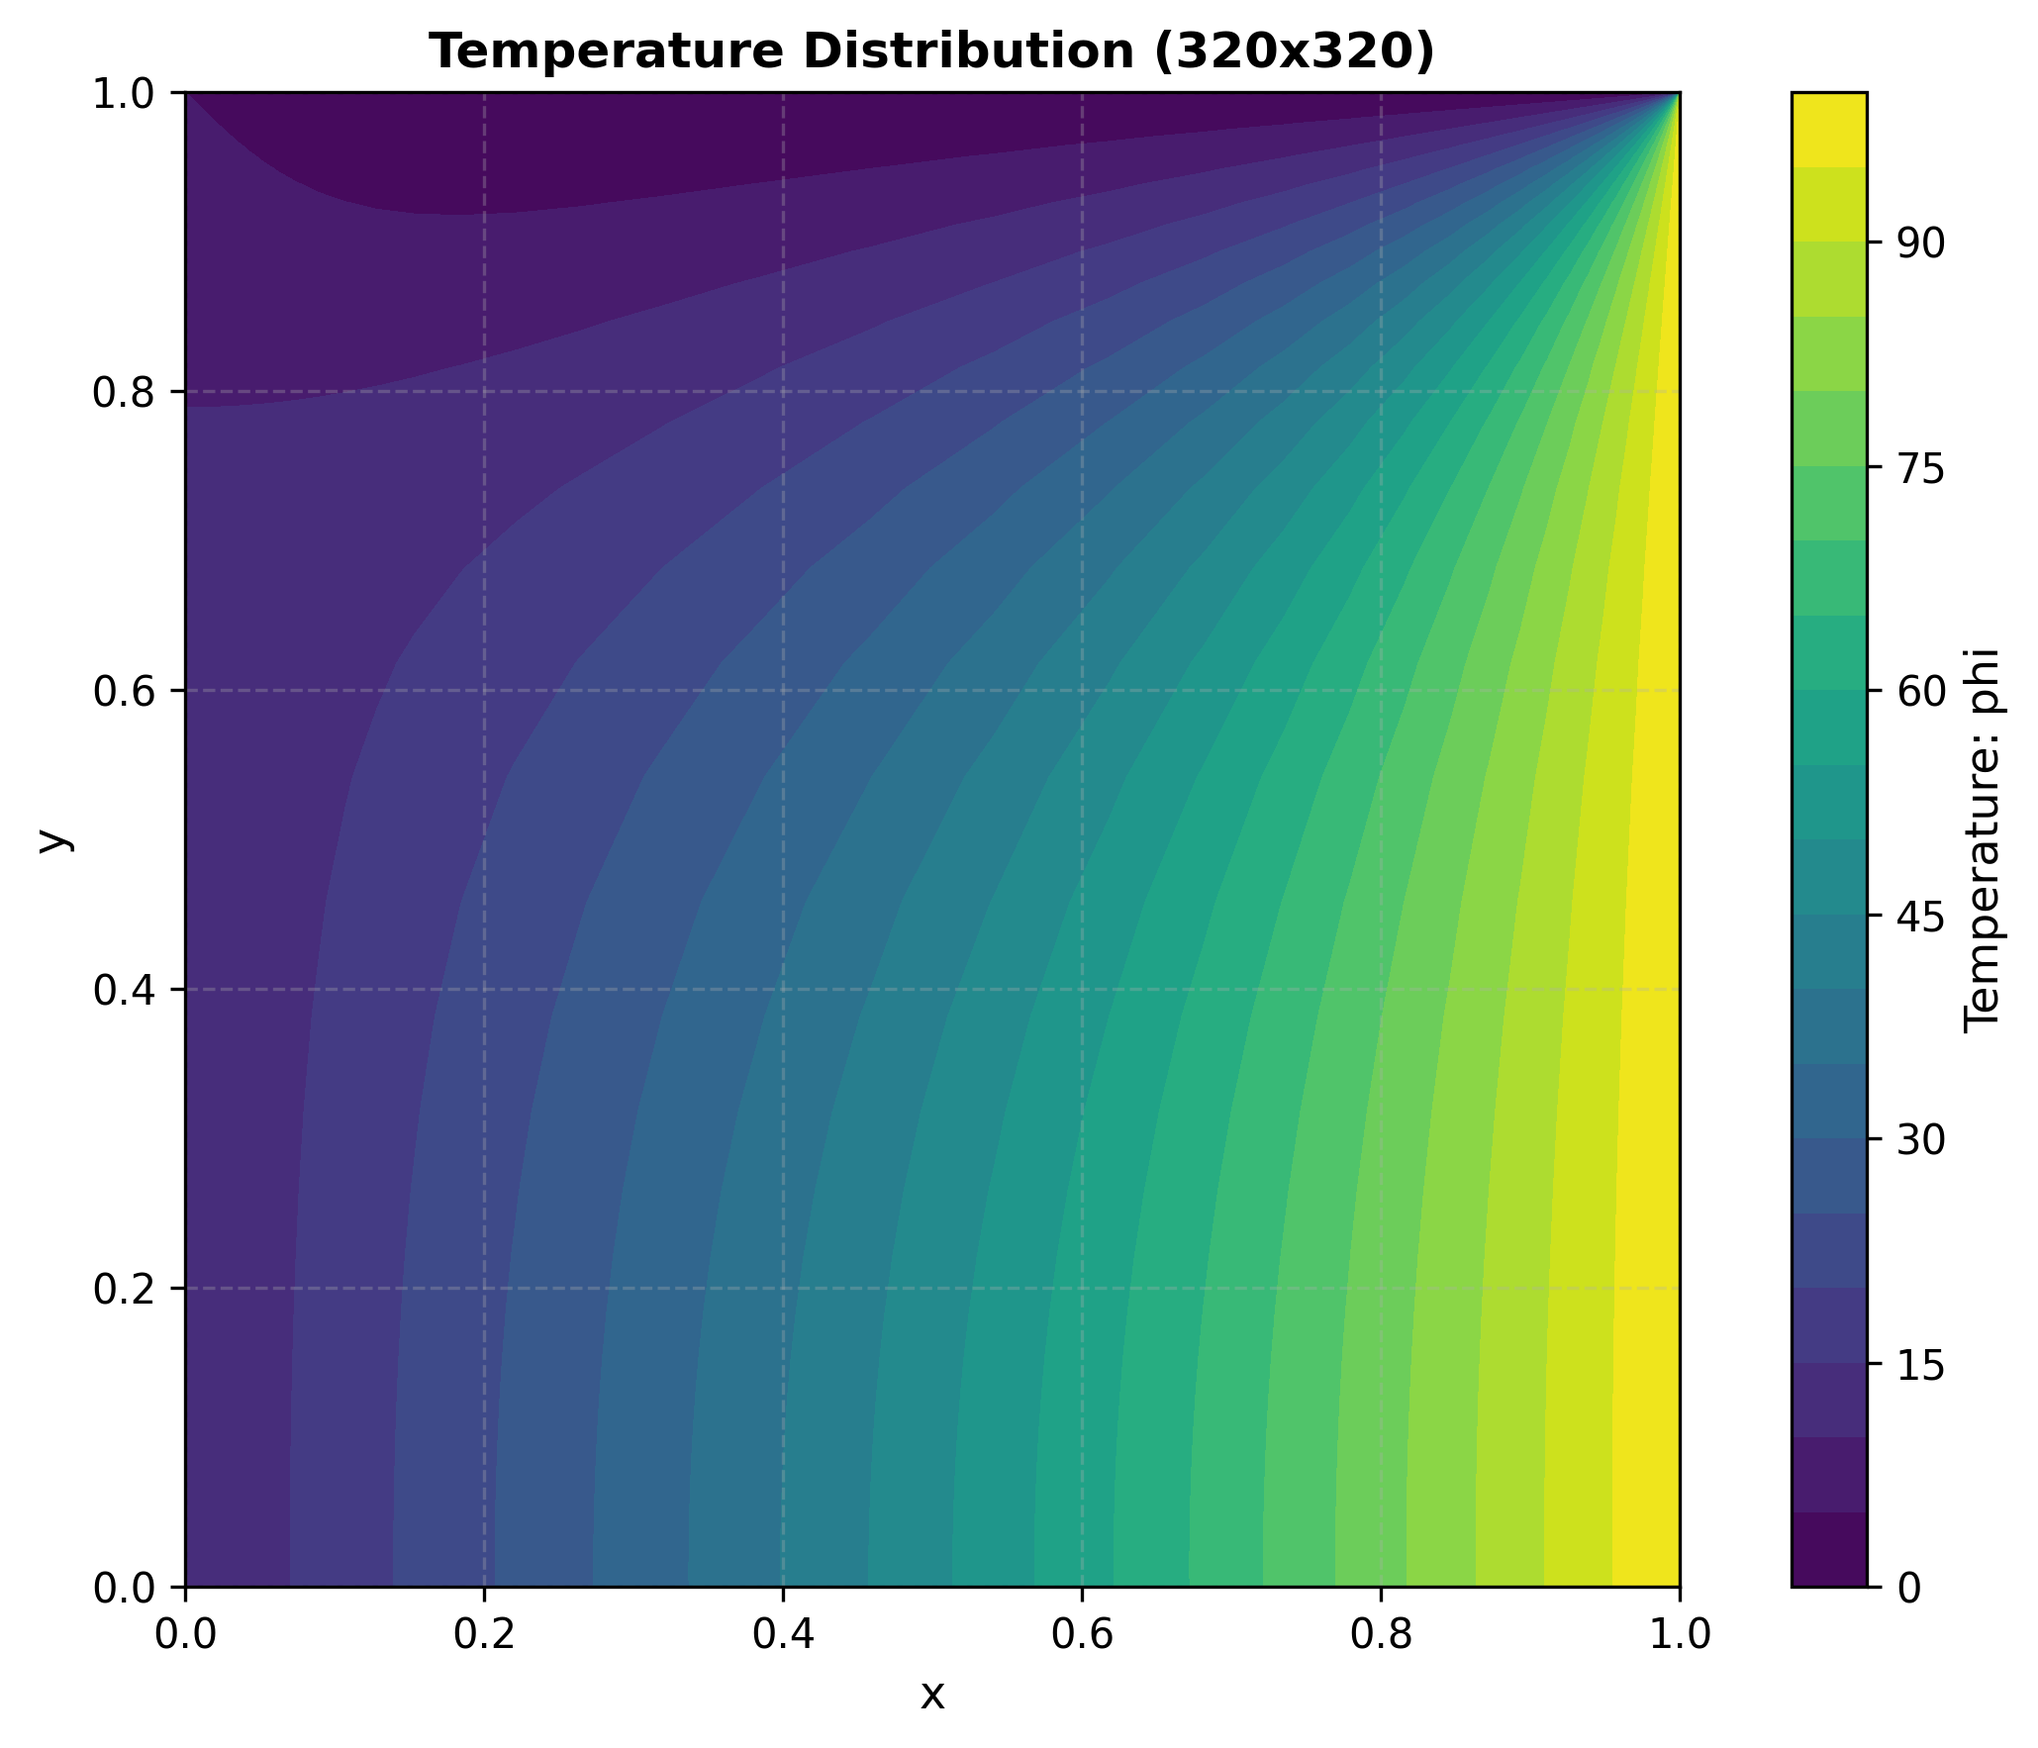
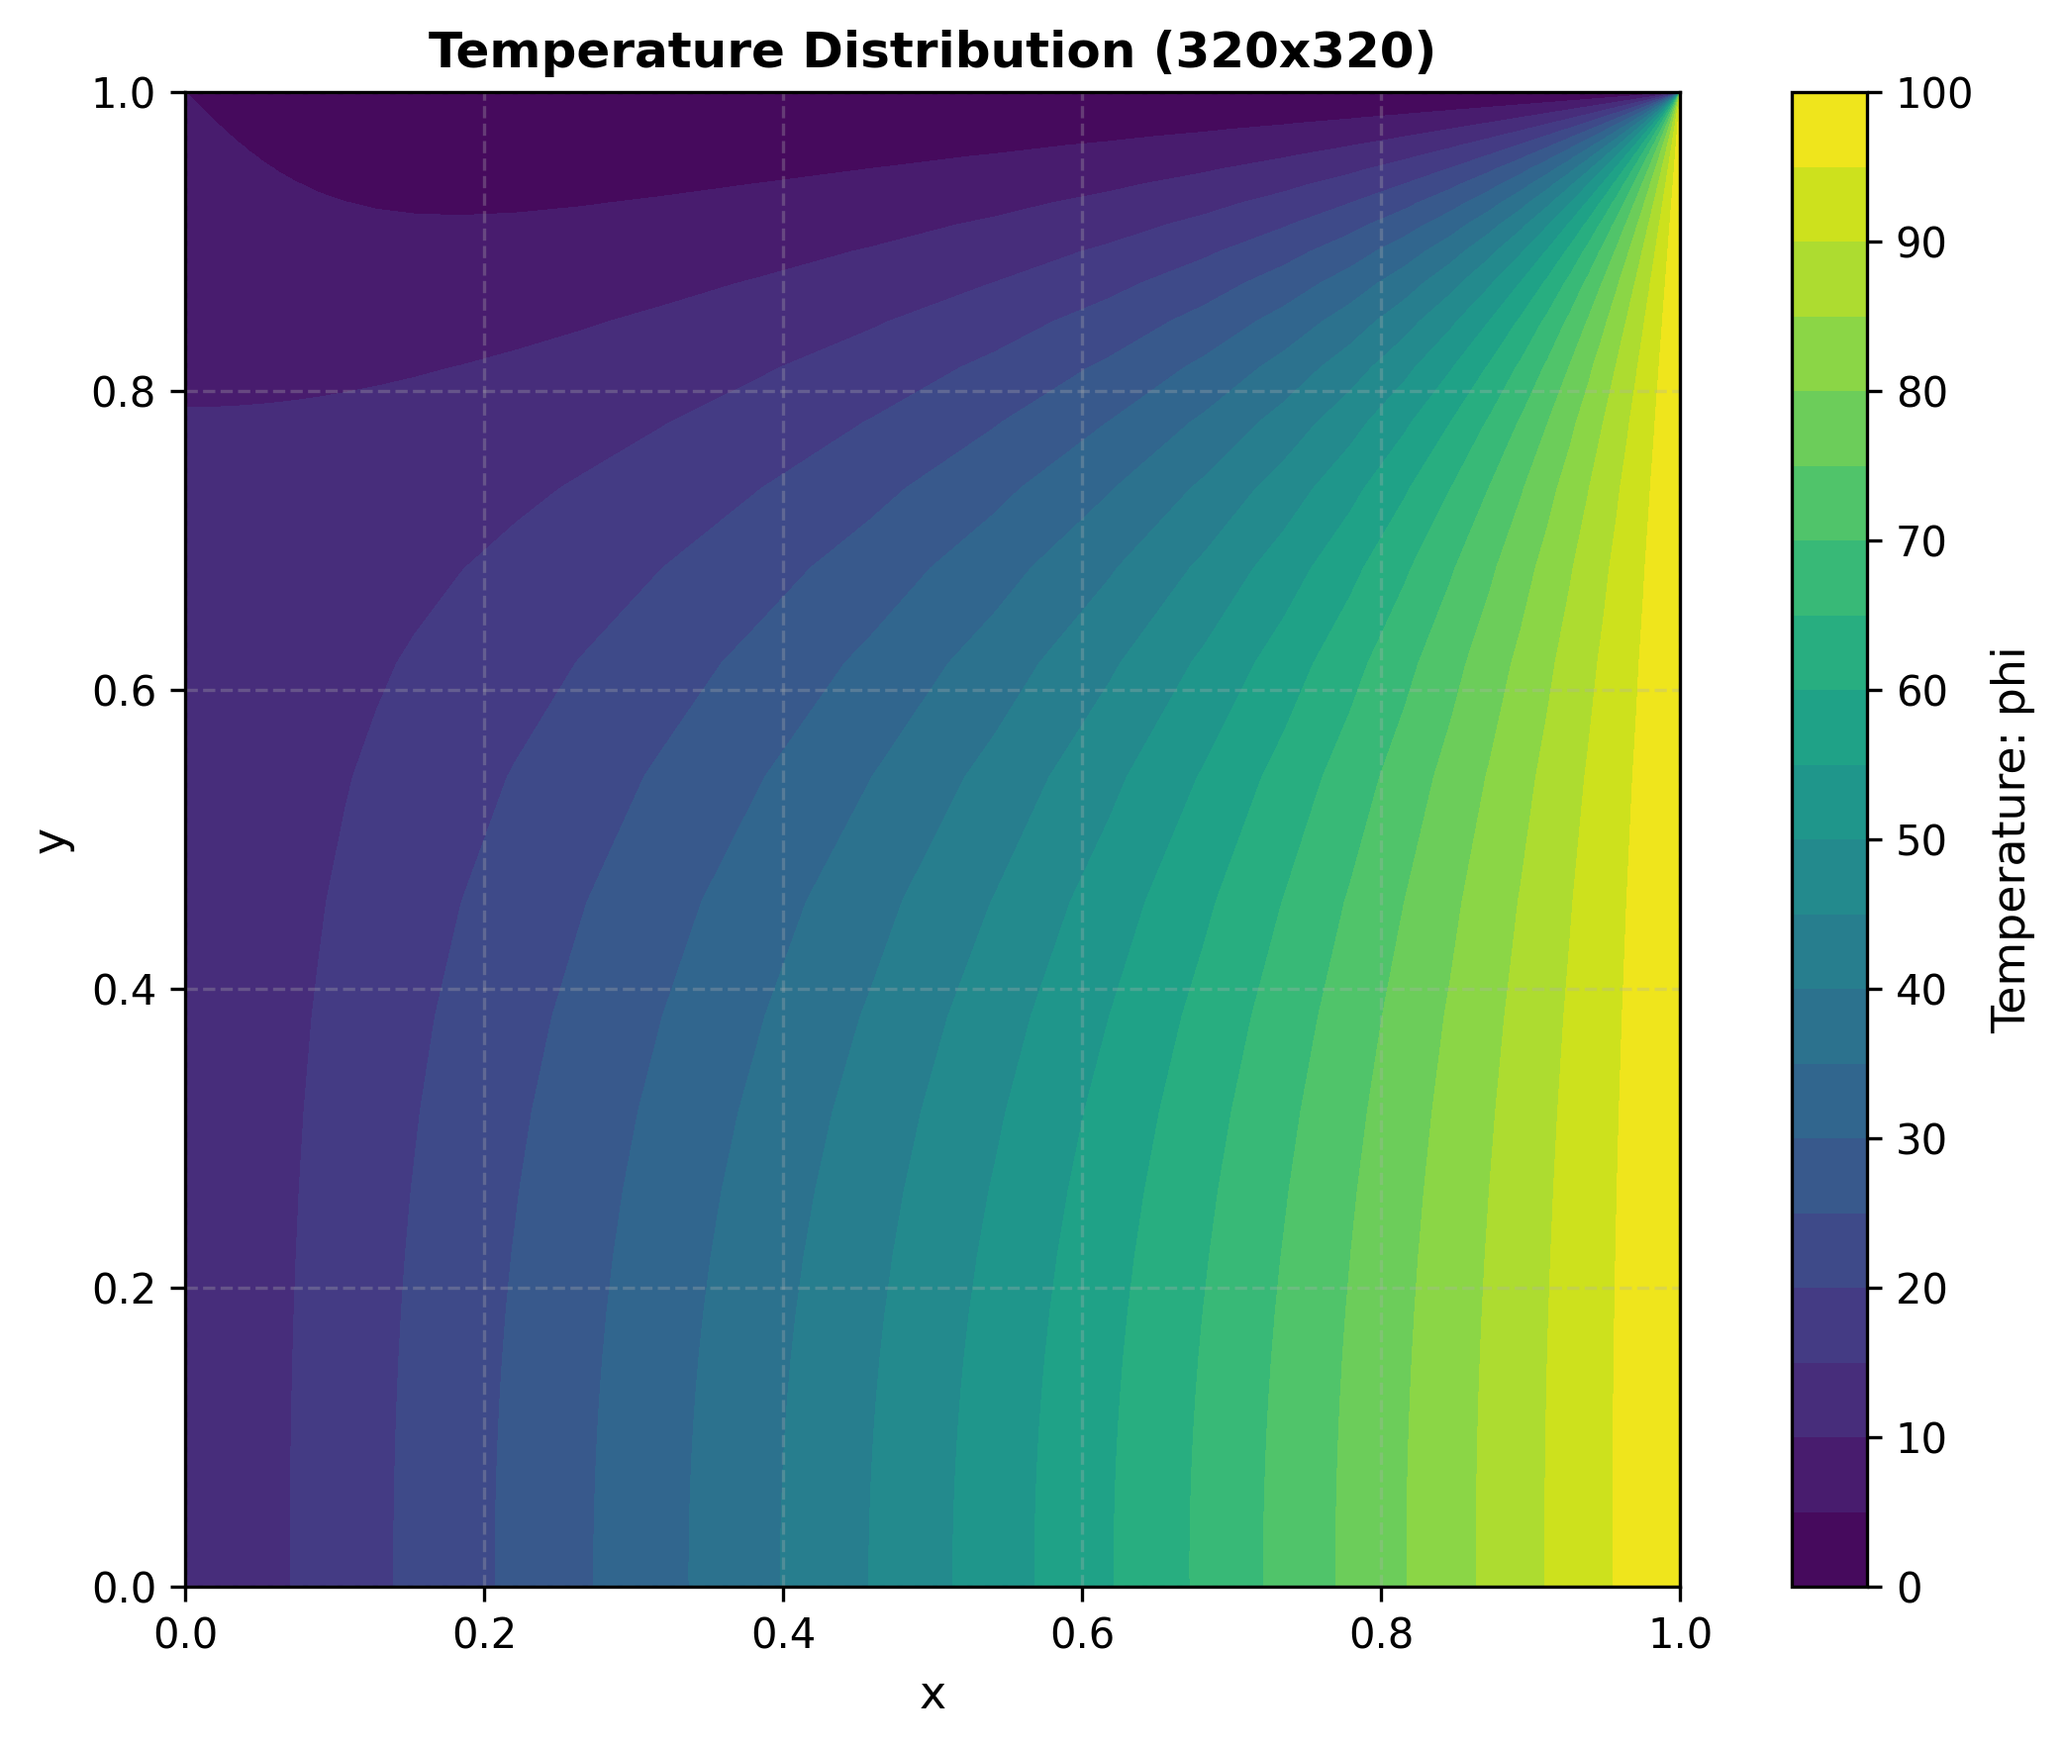
Assignment 2 - Slight Changes

diff --git a/Assignment2.py b/Assignment2.py
@@ -147,14 +147,16 @@ def solve_system(A, b):
     return phi_vec
 
 def phi_to_grid(phi_vec, Nx, Ny):
-    return phi_vec.reshape((Nx, Ny))
+    return phi_vec.reshape((Ny, Nx))
 
 def plot_phi(xc, yc, phi, title, fname):
     X, Y = np.meshgrid(xc, yc)
     fig, ax = plt.subplots(figsize=(8,6))
-    levels = np.linspace(phi.min(), phi.max(), 21) # 20 evenly-spaced colour bands over range
+    # levels = np.linspace(phi.min(), phi.max(), 21) # 20 evenly-spaced colour bands over range
+    levels = np.linspace (0, 100, 21)
+    ticks = np.linspace (0, 100, 11)
     cs = plt.contourf(X, Y, phi, levels=levels)
-    cbar = plt.colorbar(cs, ax=ax)
+    cbar = plt.colorbar(cs, ax=ax, ticks = ticks)
     cbar.set_label('Temperature: phi', fontsize = 11)
     ax.set_title(title, fontsize=12, fontweight='bold')
     ax.set_xlabel('x', fontsize=11)
@@ -166,7 +168,7 @@ def plot_phi(xc, yc, phi, title, fname):
     plt.close()
 
 def compute_error_norm(phi_coarse, x_c, y_c, phi_ref, x_ref, y_ref):
-    interp_func = RegularGridInterpolator( # interp2d was not working - apparently is no longer supported
+    interp_func = RegularGridInterpolator( # interp2d was not working - apparently it is no longer supported
         (y_ref, x_ref),
         phi_ref,
         method = 'cubic', # Cubic Interpolation
@@ -216,29 +218,38 @@ def convergence_study(Rx, Ry, save_dir='my_results'):
         xc, yc, phi = run_case(Nx, Ny, Rx, Ry, save_dir)
         results[(Nx,Ny)] = (xc,yc,phi)
         print(f'Ran {Nx} x {Ny}')
+        print(f'  phi.shape = {phi.shape}')  # ADD THIS
+        print(f'  xc.shape = {xc.shape}, yc.shape = {yc.shape}')  # ADD THIS
 
     finest = meshes[-1]
     xref, yref, phiref = results[finest]
     norms = {}
 
-    for i_mesh in range(len(meshes)-1):
-        Nc = meshes[i_mesh]
-        Nf = meshes[i_mesh+1]
-        xc, yc, phic = results[Nc]
-        xf, yf, phif = results[Nf]
+    Nc = meshes[0]
+    Nf = meshes[1]
+    xc, yc, phic = results[Nc]
+    xf, yf, phif = results[Nf]
 
-        ec = compute_error_norm(phic, xc, yc, phiref, xref, yref)
-        ef = compute_error_norm(phif, xf, yf, phiref, xref, yref)
+    ec = compute_error_norm(phic, xc, yc, phiref, xref, yref)
+    ef = compute_error_norm(phif, xf, yf, phiref, xref, yref)
 
-        hx_c = Lx / Nc[0]
-        hx_f = Lx / Nf[0]
-        order = np.log(ec/ef) / np.log(hx_c/hx_f)
-        norms[(Nc, Nf)] = (ec, ef, order)
-        print(f"\nCoarse: {Nc[0]}×{Nc[1]}, h = {hx_c:.6f}")
-        print(f"Fine:   {Nf[0]}×{Nf[1]}, h = {hx_f:.6f}")
-        print(f"Error (coarse): {ec:.6e}")
-        print(f"Error (fine):   {ef:.6e}")
-        print(f"Order of convergence: {order:.4f}")
+    hx_c = Lx / Nc[0]
+    hx_f = Lx / Nf[0]
+
+    print(f"\nErrors:")
+    print(f'  ec = {ec:.10e}')
+    print(f'  ef = {ef:.10e}')
+    print(f'  Ratio ec/ef = {ec / ef:.4f}')
+    print(f'  hx_c = {hx_c:.6f}, hx_f = {hx_f:.6f}')
+    print(f'  Ratio hx_c/hx_f = {hx_c / hx_f:.4f}')
+
+    order = np.log(ec/ef) / np.log(hx_c/hx_f)
+    norms[(Nc, Nf)] = (ec, ef, order)
+    print(f"\nCoarse: {Nc[0]}×{Nc[1]}, h = {hx_c:.6f}")
+    print(f"Fine:   {Nf[0]}×{Nf[1]}, h = {hx_f:.6f}")
+    print(f"Error (coarse): {ec:.6e}")
+    print(f"Error (fine):   {ef:.6e}")
+    print(f"Order of convergence: {order:.4f}")
 
     os.makedirs(save_dir, exist_ok=True)
     summary_file = os.path.join(save_dir, 'convergence_summary.txt')
@@ -255,13 +266,14 @@ def convergence_study(Rx, Ry, save_dir='my_results'):
         f.write(f"  phi_left = {phi_left}, phi_right = {phi_right}\n")
         f.write(f"  phi_ext = {phi_ext}\n\n")
 
-        for (Nc, Nf), (ec, ef, order) in norms.items():
-            f.write("-" * 70 + "\n")
-            f.write(f"Coarse mesh: {Nc[0]} x {Nc[1]}, h = {Lx / Nc[0]:.8f}\n")
-            f.write(f"Fine mesh:   {Nf[0]} x {Nf[1]}, h = {Lx / Nf[0]:.8f}\n")
-            f.write(f"Error (coarse): {ec:.10e}\n")
-            f.write(f"Error (fine):   {ef:.10e}\n")
-            f.write(f"Order of convergence: {order:.6f}\n\n")
+        Nc, Nf = meshes[0], meshes[1]
+        ec, ef, order = norms[(Nc, Nf)]
+        f.write("-" * 70 + "\n")
+        f.write(f"Coarse mesh: {Nc[0]} x {Nc[1]}, h = {Lx / Nc[0]:.8f}\n")
+        f.write(f"Fine mesh:   {Nf[0]} x {Nf[1]}, h = {Lx / Nf[0]:.8f}\n")
+        f.write(f"Error (coarse): {ec:.10e}\n")
+        f.write(f"Error (fine):   {ef:.10e}\n")
+        f.write(f"Order of convergence: {order:.6f}\n\n")
 
     print(f"\n{'=' * 70}")
     print(f"Results saved to: {summary_file}")
@@ -279,7 +291,7 @@ if __name__ == '__main__':
     print("\n" + "#" * 70)
     print("# PART 2: INFLATED GRID CONVERGENCE STUDY (r=1.2)")
     print("#" * 70)
-    convergence_study(Rx=1.2, Ry=1.2, save_dir='results_inflated')
+    convergence_study(Rx=1.1, Ry=1.1, save_dir='results_inflated')
 
     print("\n" + "=" * 70)
     print("ANALYSIS COMPLETE!")
